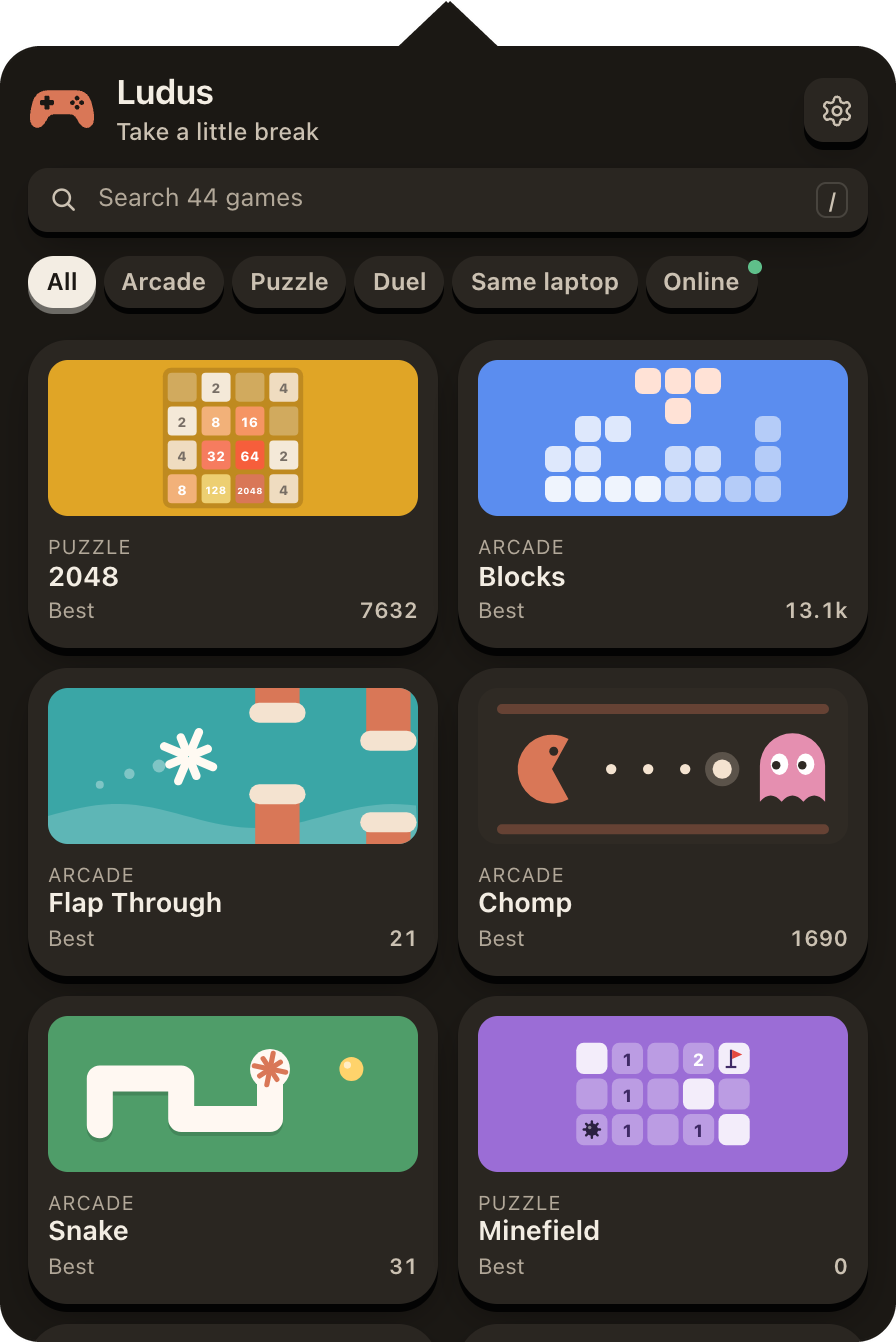
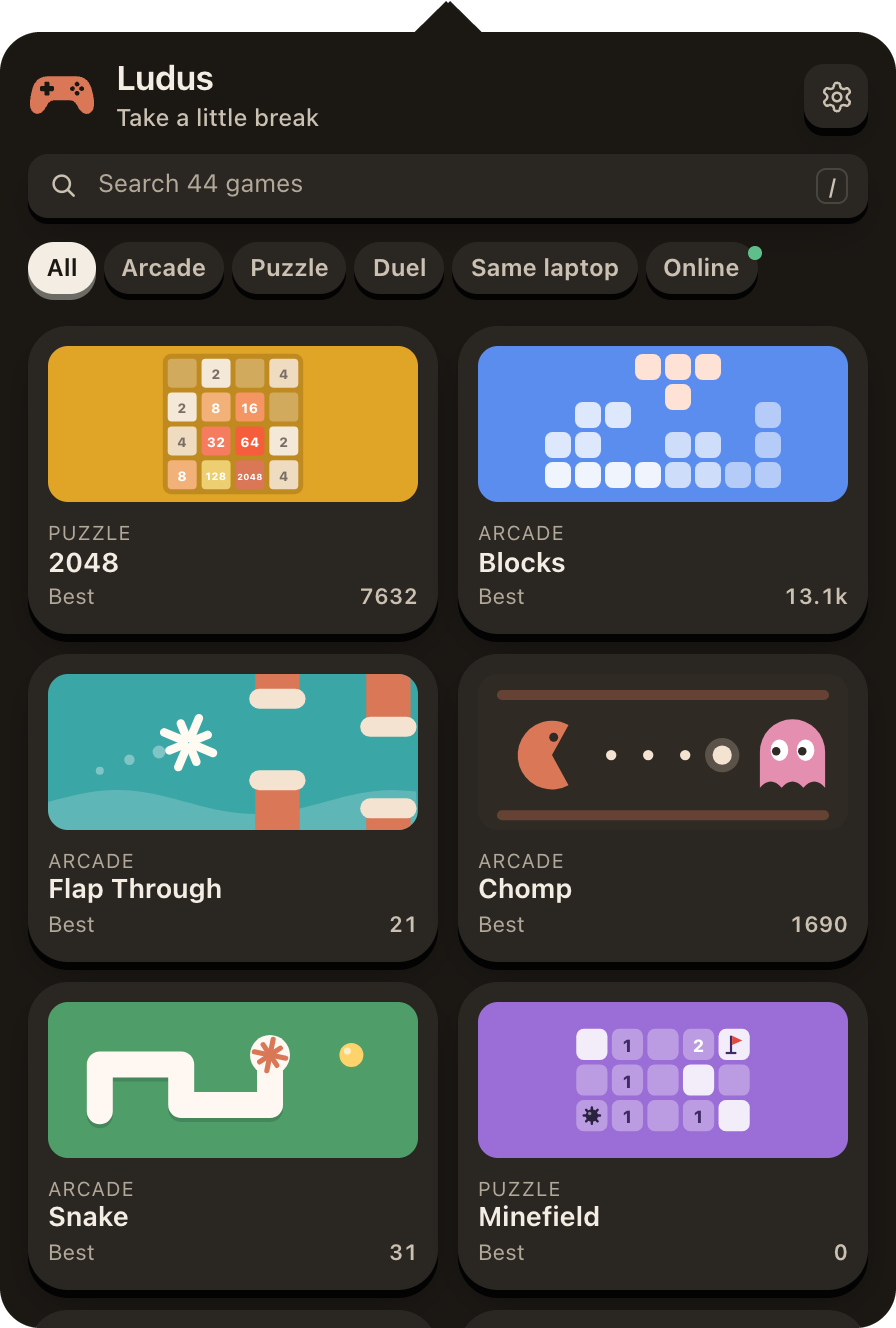
Site: menu bar back above every dropdown, smaller arrows on Ludus and Memo

diff --git a/memo/index.html b/memo/index.html
@@ -277,7 +277,7 @@
 
     <div class="stagebox">
       <div class="glow" aria-hidden="true"></div>
-      <div class="shot mac-only"><div class="pv" style="--w:460px"><picture class="float"><source media="(prefers-color-scheme: dark)" srcset="img/hero-panel-dark.png"><img src="img/hero-panel-light.png" width="460" height="598" alt="The Memo panel open under its menu bar icon, showing pinned and recent items" fetchpriority="high"></picture></div></div>
+      <div class="shot mac-only"><div class="mbar" aria-hidden="true" style="width:min(460px,100%)"><div class="side l"><svg viewBox="0 0 24 24"><circle cx="10.5" cy="10.5" r="6" fill="none" stroke="currentColor" stroke-width="2"/><path d="M15 15l5 5" stroke="currentColor" stroke-width="2" stroke-linecap="round"/></svg><svg viewBox="0 0 24 24"><path fill="none" stroke="currentColor" stroke-width="2" stroke-linecap="round" d="M2 9a15 15 0 0 1 20 0M5.5 12.5a10 10 0 0 1 13 0M9 16a5 5 0 0 1 6 0"/><circle cx="12" cy="19.5" r="1.4" fill="currentColor"/></svg><svg viewBox="0 0 24 24" style="width:19px"><rect x="2" y="7" width="17" height="10" rx="2.5" fill="none" stroke="currentColor" stroke-width="1.8"/><rect x="4.5" y="9.5" width="10" height="5" rx="1" fill="currentColor"/><path d="M21 10.5v3" stroke="currentColor" stroke-width="2" stroke-linecap="round"/></svg></div><b class="pad"><svg viewBox="0 0 24 24"><rect x="8" y="3" width="12" height="14" rx="3" fill="none" stroke="currentColor" stroke-width="2"/><rect x="4" y="7" width="12" height="14" rx="3" fill="var(--bg)" stroke="currentColor" stroke-width="2"/></svg></b><div class="side r"><i class="clock">Wed 9:41</i></div></div><div class="pv" style="--w:460px"><picture class="float"><source media="(prefers-color-scheme: dark)" srcset="img/hero-panel-dark.png"><img src="img/hero-panel-light.png" width="460" height="590" alt="The Memo panel open under its menu bar icon, showing pinned and recent items" fetchpriority="high"></picture></div></div>
       <div class="winstage win-only">
         <picture><source media="(prefers-color-scheme: dark)" srcset="img/win/memo-popup-dark.png"><img src="img/win/memo-popup-light.png" alt="The Memo history open above the Windows tray" loading="lazy"></picture>
         <picture class="tray"><source media="(prefers-color-scheme: dark)" srcset="img/win/memo-tray-dark.png"><img src="img/win/memo-tray-light.png" alt="" loading="lazy"></picture>

diff --git a/awayke/index.html b/awayke/index.html
@@ -267,7 +267,7 @@
 
     <div class="stagebox">
       <div class="glow" aria-hidden="true"></div>
-      <div class="shot mac-only"><div class="pv" style="--w:440px"><picture class="float"><source media="(prefers-color-scheme: dark)" srcset="img/shot-panel-dark.png"><img src="img/shot-panel-light.png" width="440" height="628" alt="The Awayke panel open under its menu bar icon" fetchpriority="high"></picture></div></div>
+      <div class="shot mac-only"><div class="mbar" aria-hidden="true" style="width:min(440px,100%)"><div class="side l"><svg viewBox="0 0 24 24"><circle cx="10.5" cy="10.5" r="6" fill="none" stroke="currentColor" stroke-width="2"/><path d="M15 15l5 5" stroke="currentColor" stroke-width="2" stroke-linecap="round"/></svg><svg viewBox="0 0 24 24"><path fill="none" stroke="currentColor" stroke-width="2" stroke-linecap="round" d="M2 9a15 15 0 0 1 20 0M5.5 12.5a10 10 0 0 1 13 0M9 16a5 5 0 0 1 6 0"/><circle cx="12" cy="19.5" r="1.4" fill="currentColor"/></svg><svg viewBox="0 0 24 24" style="width:19px"><rect x="2" y="7" width="17" height="10" rx="2.5" fill="none" stroke="currentColor" stroke-width="1.8"/><rect x="4.5" y="9.5" width="10" height="5" rx="1" fill="currentColor"/><path d="M21 10.5v3" stroke="currentColor" stroke-width="2" stroke-linecap="round"/></svg></div><b class="pad"><svg viewBox="0 0 24 24"><path fill="currentColor" d="M12 2.5c.4 3 4.6 5.3 4.6 10.2a4.6 4.6 0 0 1-9.2 0c0-2.3 1.2-3.2 1.9-4.4.5 1 1 1.4 1.6 1.4C11 7.5 11.2 4.8 12 2.5Z"/></svg></b><div class="side r"><i class="clock">Wed 9:41</i></div></div><div class="pv" style="--w:440px"><picture class="float"><source media="(prefers-color-scheme: dark)" srcset="img/shot-panel-dark.png"><img src="img/shot-panel-light.png" width="440" height="628" alt="The Awayke panel open under its menu bar icon" fetchpriority="high"></picture></div></div>
       <div class="winstage win-only">
         <picture><source media="(prefers-color-scheme: dark)" srcset="img/win/awayke-panel-light.png"><img src="img/win/awayke-panel-light.png" alt="The Awayke panel open above the Windows tray" loading="lazy"></picture>
         <picture class="tray"><source media="(prefers-color-scheme: dark)" srcset="img/win/awayke-tray-light.png"><img src="img/win/awayke-tray-light.png" alt="" loading="lazy"></picture>

diff --git a/nox/index.html b/nox/index.html
@@ -266,7 +266,7 @@
 
     <div class="stagebox">
       <div class="glow" aria-hidden="true"></div>
-      <div class="shot mac-only"><div class="pv" style="--w:440px"><picture class="float"><source media="(prefers-color-scheme: dark)" srcset="img/shot-panel-dark.png"><img src="img/shot-panel-light.png" width="440" height="587" alt="The Nox panel open under its menu bar switch" fetchpriority="high"></picture></div></div>
+      <div class="shot mac-only"><div class="mbar" aria-hidden="true" style="width:min(440px,100%)"><div class="side l"><svg viewBox="0 0 24 24"><circle cx="10.5" cy="10.5" r="6" fill="none" stroke="currentColor" stroke-width="2"/><path d="M15 15l5 5" stroke="currentColor" stroke-width="2" stroke-linecap="round"/></svg><svg viewBox="0 0 24 24"><path fill="none" stroke="currentColor" stroke-width="2" stroke-linecap="round" d="M2 9a15 15 0 0 1 20 0M5.5 12.5a10 10 0 0 1 13 0M9 16a5 5 0 0 1 6 0"/><circle cx="12" cy="19.5" r="1.4" fill="currentColor"/></svg><svg viewBox="0 0 24 24" style="width:19px"><rect x="2" y="7" width="17" height="10" rx="2.5" fill="none" stroke="currentColor" stroke-width="1.8"/><rect x="4.5" y="9.5" width="10" height="5" rx="1" fill="currentColor"/><path d="M21 10.5v3" stroke="currentColor" stroke-width="2" stroke-linecap="round"/></svg></div><b class="pad"><svg viewBox="0 0 24 24"><rect x="2" y="6.5" width="20" height="11" rx="5.5" fill="none" stroke="currentColor" stroke-width="2"/><circle cx="8" cy="12" r="3.2" fill="currentColor"/></svg></b><div class="side r"><i class="clock">Wed 9:41</i></div></div><div class="pv" style="--w:440px"><picture class="float"><source media="(prefers-color-scheme: dark)" srcset="img/shot-panel-dark.png"><img src="img/shot-panel-light.png" width="440" height="587" alt="The Nox panel open under its menu bar switch" fetchpriority="high"></picture></div></div>
       <div class="winstage win-only">
         <picture><source media="(prefers-color-scheme: dark)" srcset="img/win/nox-panel-dark.png"><img src="img/win/nox-panel-light.png" alt="The Nox panel open above the Windows tray" loading="lazy"></picture>
         <picture class="tray"><source media="(prefers-color-scheme: dark)" srcset="img/win/nox-tray-dark.png"><img src="img/win/nox-tray-light.png" alt="" loading="lazy"></picture>

diff --git a/assets/site.css b/assets/site.css
@@ -113,3 +113,16 @@ section[style*="max-width:720px"] { margin: 0 auto !important; padding: 0 20px !
 .ossbtn:active { transform: scale(.98); }
 
 .stagebox .glow, section .glow { opacity: .4; }
+
+/* menu bar the dropdown arrow points to */
+.shot.mac-only { display: grid; justify-items: center; }
+.mbar { position: relative; z-index: 2; display: grid; grid-template-columns: 1fr auto 1fr; align-items: center; gap: 14px; height: 36px; padding: 0 16px; margin: 0 auto -2px; border-radius: 13px; background: linear-gradient(180deg, rgba(255,255,255,.92), rgba(255,255,255,.66)); border: 1px solid rgba(255,255,255,.75); box-shadow: 0 1px 0 rgba(255,255,255,.9) inset, 0 10px 24px -12px rgba(40,28,16,.32), 0 1px 3px rgba(40,28,16,.10); color: var(--ink); }
+@media (prefers-color-scheme: dark) { .mbar { background: linear-gradient(180deg, rgba(60,60,66,.92), rgba(40,40,46,.78)); border-color: rgba(255,255,255,.12); box-shadow: 0 1px 0 rgba(255,255,255,.1) inset, 0 12px 26px -12px rgba(0,0,0,.7); } }
+.mbar .side { display: flex; align-items: center; gap: 16px; color: color-mix(in srgb, var(--ink) 78%, transparent); }
+.mbar .side.l { justify-content: flex-end; }
+.mbar .side.r { justify-content: flex-start; }
+.mbar .side svg { width: 15px; height: 15px; }
+.mbar .clock { font: 600 12px/1 var(--font, system-ui); font-style: normal; color: color-mix(in srgb, var(--ink) 70%, transparent); white-space: nowrap; }
+.mbar .pad { position: relative; width: 22px; height: 18px; display: grid; place-items: center; color: var(--ink); }
+.mbar .pad svg { width: 17px; height: 17px; }
+.mbar .pad::after { content: ""; position: absolute; inset: -6px -8px; border-radius: 8px; background: color-mix(in srgb, var(--ink) 11%, transparent); z-index: -1; }

diff --git a/ludus/index.html b/ludus/index.html
@@ -141,7 +141,6 @@
   .taskbar .tray svg { width: 20px; height: 13px; }
   .taskbar .tray::after { content: ""; position: absolute; left: 50%; bottom: 2px; width: 14px; height: 3px; border-radius: 2px; transform: translateX(-50%); background: var(--accent); }
   .taskbar .clock { margin-left: auto; text-align: right; font-size: 11.5px; line-height: 1.3; color: var(--ink); white-space: nowrap; }
-  .menubar .strip { display: none; }
   html[data-os="windows"] .menubar .strip { display: none; }
   html[data-os="windows"] .taskbar { display: grid; }
   html[data-os="windows"] .shot .nub { display: none; }
@@ -326,7 +325,7 @@
         <div class="shot" id="heroShot">
           <div class="pv macpic" style="--w:448px"><picture class="float" data-shot="shot-panel">
             <source media="(prefers-color-scheme: dark)" srcset="img/shot-panel-dark.png">
-            <img src="img/shot-panel-light.png" width="448" height="671" fetchpriority="high" alt="The Ludus panel open under the menu bar, with a grid of games">
+            <img src="img/shot-panel-light.png" width="448" height="660" fetchpriority="high" alt="The Ludus panel open under the menu bar, with a grid of games">
           </picture></div>
           <picture class="float winpic" data-shot="panel">
             <source media="(prefers-color-scheme: dark)" srcset="img/panel-dark.png">
